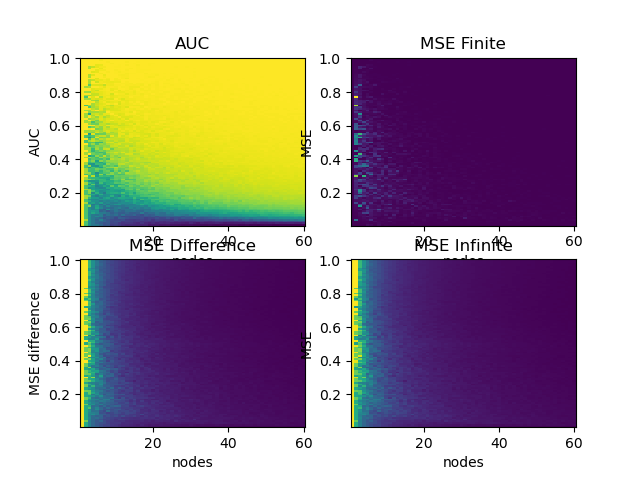
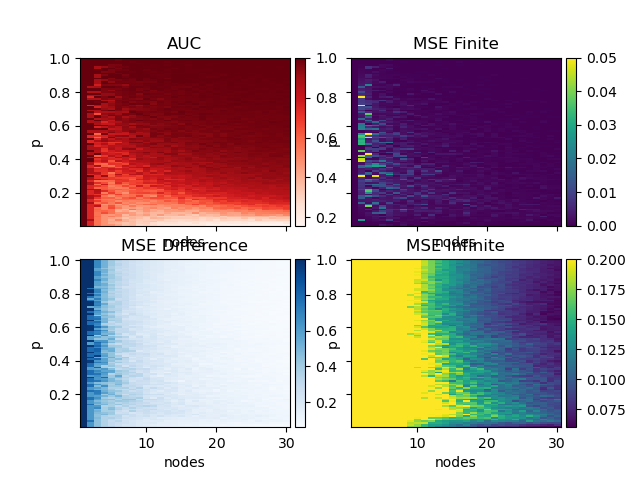
updated colorbars heatmaps

diff --git a/Figure 3.py b/Figure 3.py
@@ -29,7 +29,7 @@ fvals = pickle.load(open('data/fvalues.p', 'rb'))
 pvals = pickle.load(open('data/Pvalues.p', 'rb'))
 
 
-total_n = 60
+total_n = 30
 total_p = 100
 nodes_array = np.arange(1,total_n+1)
 probs_array = np.linspace(.01,1,total_p)
@@ -78,6 +78,11 @@ for i in range(1,total_n+1):
         fin = (relSCurve_precalculated(i, probs_array[j], targeted_removal=False, simulated=False, finite=True)[:i])
         #print("fin",fin)
         heatmap1[j][i-1] = ((fin-sim)**2).mean()
+maxf = np.max(heatmap1)
+print("max fin", maxf)
+medf = np.median(heatmap1)
+print("median fin", medf)
+
 
 heatmap1 = heatmap1.tolist()
 # print(heatmap1)
@@ -103,16 +108,20 @@ for i in range(1,total_n+1):
         for k in range(i):
             sim = sim + np.transpose(all_sim[:,k][:i])
         sim = sim / i
-        print(np.shape(sim))
+        #print(np.shape(sim))
         path_name = "{}_attack{}_n{}.npy".format("infRelSCurve", targeted_removal, i)
         path_name = os.path.join("data", "synthetic_data", path_name)
         all_inf = np.load(path_name)
         #print(np.shape(all_inf))
         inf = all_inf[j]
-        print("i", i, "j", j, "inf", inf)
+        #print("i", i, "j", j, "inf", inf)
         heatmap2[j][i-1] = ((inf-sim)**2).mean()
 
 heatmap2 = heatmap2.tolist()
+maxi = np.max(heatmap2)
+print("max inf", maxi)
+medi = np.median(heatmap2)
+print("median inf", medi)
 #xnodes, yprobs = np.meshgrid(nodes_array, probs_array)
 
 # plt.pcolormesh(xnodes, yprobs, heatmap2)
@@ -135,7 +144,7 @@ for i in range(1,total_n+1):
         for k in range(i):
             sim = sim + np.transpose(all_sim[:,k][:i])
         sim = sim / i
-        print(np.shape(sim))
+        #print(np.shape(sim))
         path_name = "{}_attack{}_n{}.npy".format("infRelSCurve", targeted_removal, i)
         path_name = os.path.join("data", "synthetic_data", path_name)
         all_inf = np.load(path_name)
@@ -157,20 +166,60 @@ heatmap3 = heatmap3.tolist()
 # plt.colorbar()
 # plt.savefig("mse difference")
 
+def add_colorbar(mappable):
+    from mpl_toolkits.axes_grid1 import make_axes_locatable
+    import matplotlib.pyplot as plt
+    last_axes = plt.gca()
+    ax = mappable.axes
+    fig = ax.figure
+    divider = make_axes_locatable(ax)
+    cax = divider.append_axes("right", size="5%", pad=0.05)
+    cbar = fig.colorbar(mappable, cax=cax)
+    plt.sca(last_axes)
+    return cbar
 
-fig, axs = plt.subplots(2, 2)
-axs[0, 0].pcolormesh(xnodes, yprobs, heatmap0)
-axs[0, 0].set_title('AUC')
-axs[0,0].set(xlabel='nodes', ylabel='p')
-axs[0, 1].pcolormesh(xnodes, yprobs, heatmap1)
-axs[0, 1].set_title('MSE Finite')
-axs[0,1].set(xlabel='nodes', ylabel='p')
-axs[1, 0].pcolormesh(xnodes, yprobs, heatmap2)
-axs[1, 0].set_title('MSE Difference')
-axs[1,0].set(xlabel='nodes', ylabel='p')
-axs[1, 1].pcolormesh(xnodes, yprobs, heatmap3)
-axs[1, 1].set_title('MSE Infinite')
-axs[1,1].set(xlabel='nodes', ylabel='p')
+
+fig , ( (ax1,ax2) , (ax3,ax4)) = plt.subplots(2, 2,sharex = True,sharey=True)
+z1_plot = ax1.pcolormesh(xnodes, yprobs, heatmap0, cmap = "Reds")
+
+z2_plot = ax2.pcolormesh(xnodes, yprobs, heatmap1, vmax=0.05)
+z3_plot = ax3.pcolormesh(xnodes, yprobs, heatmap3, cmap = "Blues")
+z4_plot = ax4.pcolormesh(xnodes, yprobs, heatmap2, vmax=0.2)
+add_colorbar(z1_plot)
+add_colorbar(z2_plot)
+add_colorbar(z3_plot)
+add_colorbar(z4_plot)
+ax1.set(xlabel='nodes', ylabel='p')
+ax2.set(xlabel='nodes', ylabel='p')
+ax3.set(xlabel='nodes', ylabel='p')
+ax4.set(xlabel='nodes', ylabel='p')
+ax1.set_title("AUC")
+ax2.set_title("MSE Finite")
+ax3.set_title("MSE Difference")
+ax4.set_title('MSE Infinite')
+
+plt.savefig("Fig 3 Final")
+
+# fig, axs = plt.subplots(2, 2)
+# axs[0, 0].pcolormesh(xnodes, yprobs, heatmap0)
+# axs[0, 0].set_title('AUC')
+# axs[0, 0].set(xlabel='nodes', ylabel='p')
+# axs[0, 1].pcolormesh(xnodes, yprobs, heatmap1, vmax = 0.05)
+# axs[0, 1].set_title('MSE Finite')
+# axs[0, 1].set(xlabel='nodes', ylabel='p')
+# axs[1, 0].pcolormesh(xnodes, yprobs, heatmap3)
+# axs[1, 0].set_title('MSE Difference')
+# axs[1, 0].set(xlabel='nodes', ylabel='p')
+# axs[1, 1].pcolormesh(xnodes, yprobs, heatmap2, vmax = .2)
+# axs[1, 1].set_title('MSE Infinite')
+# axs[1, 1].set(xlabel='nodes', ylabel='p')
+
+
+
+
+
+#im = axs[1, 1].imshow(heatmap2)
+#plt.colorbar(im, ax=axs[1, 1])
 
 # for ax in axs.flat:
     # ax.set(xlabel='nodes', ylabel='MSE')
@@ -178,5 +227,3 @@ axs[1,1].set(xlabel='nodes', ylabel='p')
 # Hide x labels and tick labels for top plots and y ticks for right plots.
 # for ax in axs.flat:
 #     ax.label_outer()
-
-plt.savefig("Fig 3 Final")
